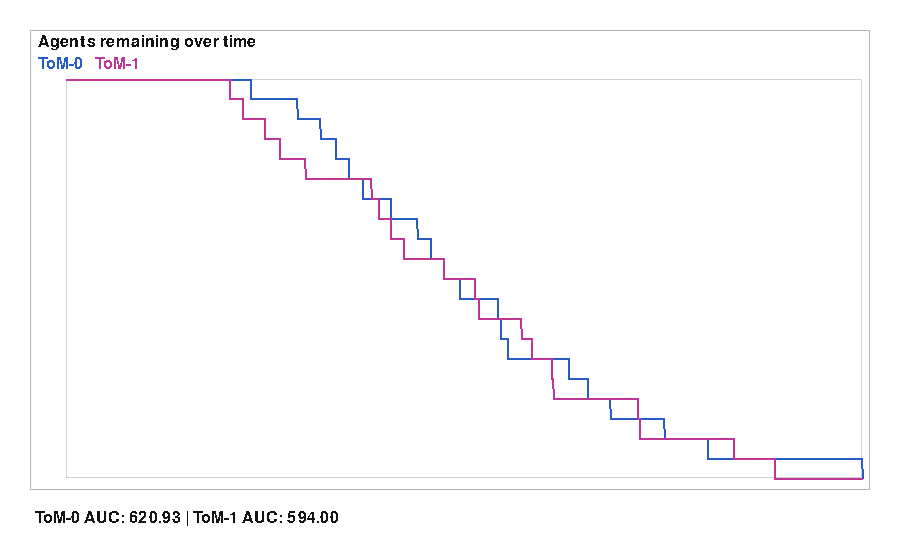
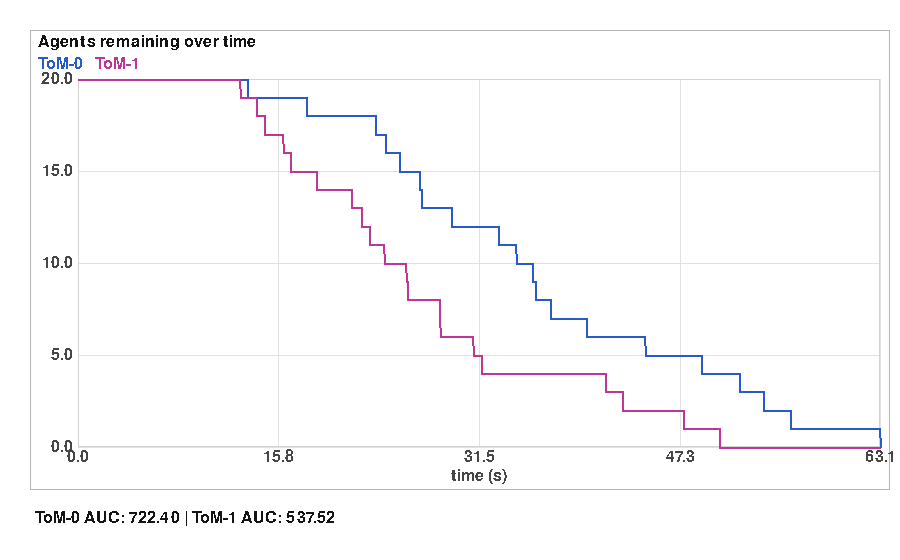
changed the looks of the auc plot a bit

diff --git a/plots.py b/plots.py
@@ -112,8 +112,20 @@ def _chart(
     pygame.draw.rect(screen, (255, 255, 255), rect)
     pygame.draw.rect(screen, (180, 180, 180), rect, 1)
     screen.blit(font.render(title, False, (20, 20, 20)), (rect.x + 8, rect.y + 4))
-    plot = pygame.Rect(rect.x + 36, rect.y + 49, rect.width - 44, rect.height - 61)
+    plot = pygame.Rect(rect.x + 48, rect.y + 49, rect.width - 58, rect.height - 92)
+    for tick in range(5):
+        fraction = tick / 4
+        x = round(plot.x + fraction * plot.width)
+        y = round(plot.bottom - fraction * plot.height)
+        pygame.draw.line(screen, (225, 225, 225), (x, plot.y), (x, plot.bottom), 1)
+        pygame.draw.line(screen, (225, 225, 225), (plot.x, y), (plot.right, y), 1)
+        x_label = font.render(f'{fraction * tmax:.1f}', False, (70, 70, 70))
+        screen.blit(x_label, (x - x_label.get_width() // 2, plot.bottom + 2))
+        y_label = font.render(f'{fraction * ymax:.1f}', False, (70, 70, 70))
+        screen.blit(y_label, (plot.x - y_label.get_width() - 5, y - y_label.get_height() // 2))
     pygame.draw.rect(screen, PLOT_COLORS['grid'], plot, 1)
+    x_title = font.render('time (s)', False, (70, 70, 70))
+    screen.blit(x_title, (plot.centerx - x_title.get_width() // 2, plot.bottom + 21))
     if tmax > 0 and ymax > 0:
         for name, values in series.items():
             if len(values) < 2:
@@ -193,7 +205,7 @@ def save_auc_plot(history: History, path: str) -> None:
     font = pygame.font.SysFont(None, 24)
     auc_values = history.auc()
 
-    chart_rect = pygame.Rect(30, 30, width - 60, height - 100)
+    chart_rect = pygame.Rect(30, 30, width - 40, height - 100)
     tmax = history.t[-1] if history.t else 1.0
     ymax = max(max(history.remaining_tom0, default=0), max(history.remaining_tom1, default=0), 1)
 
